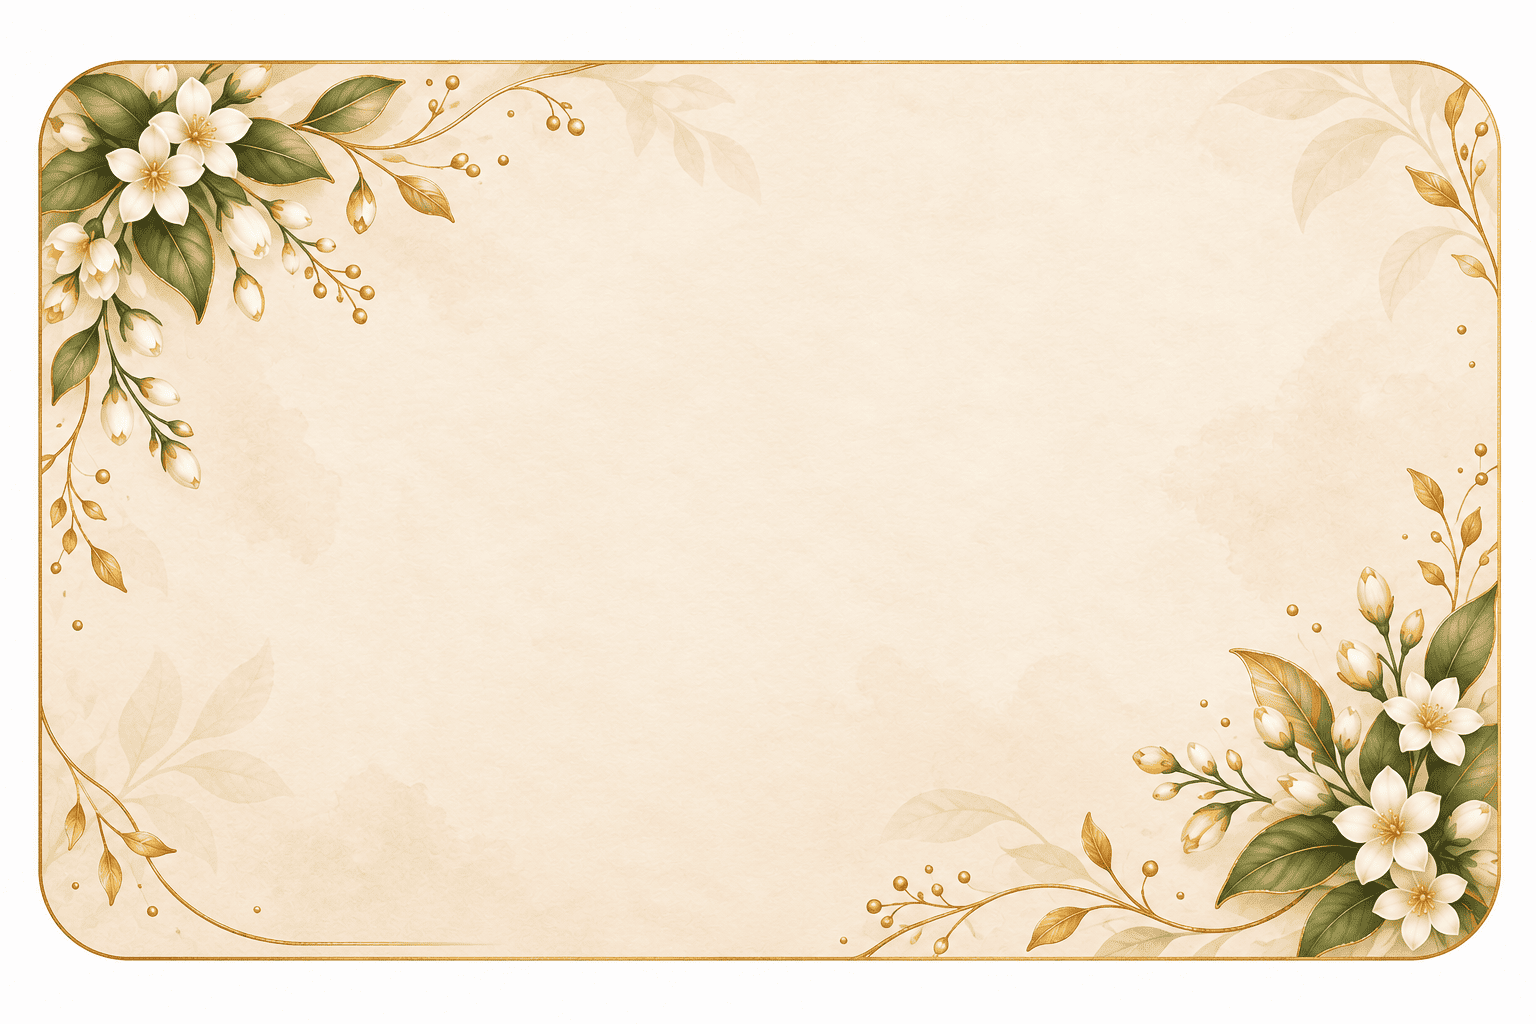
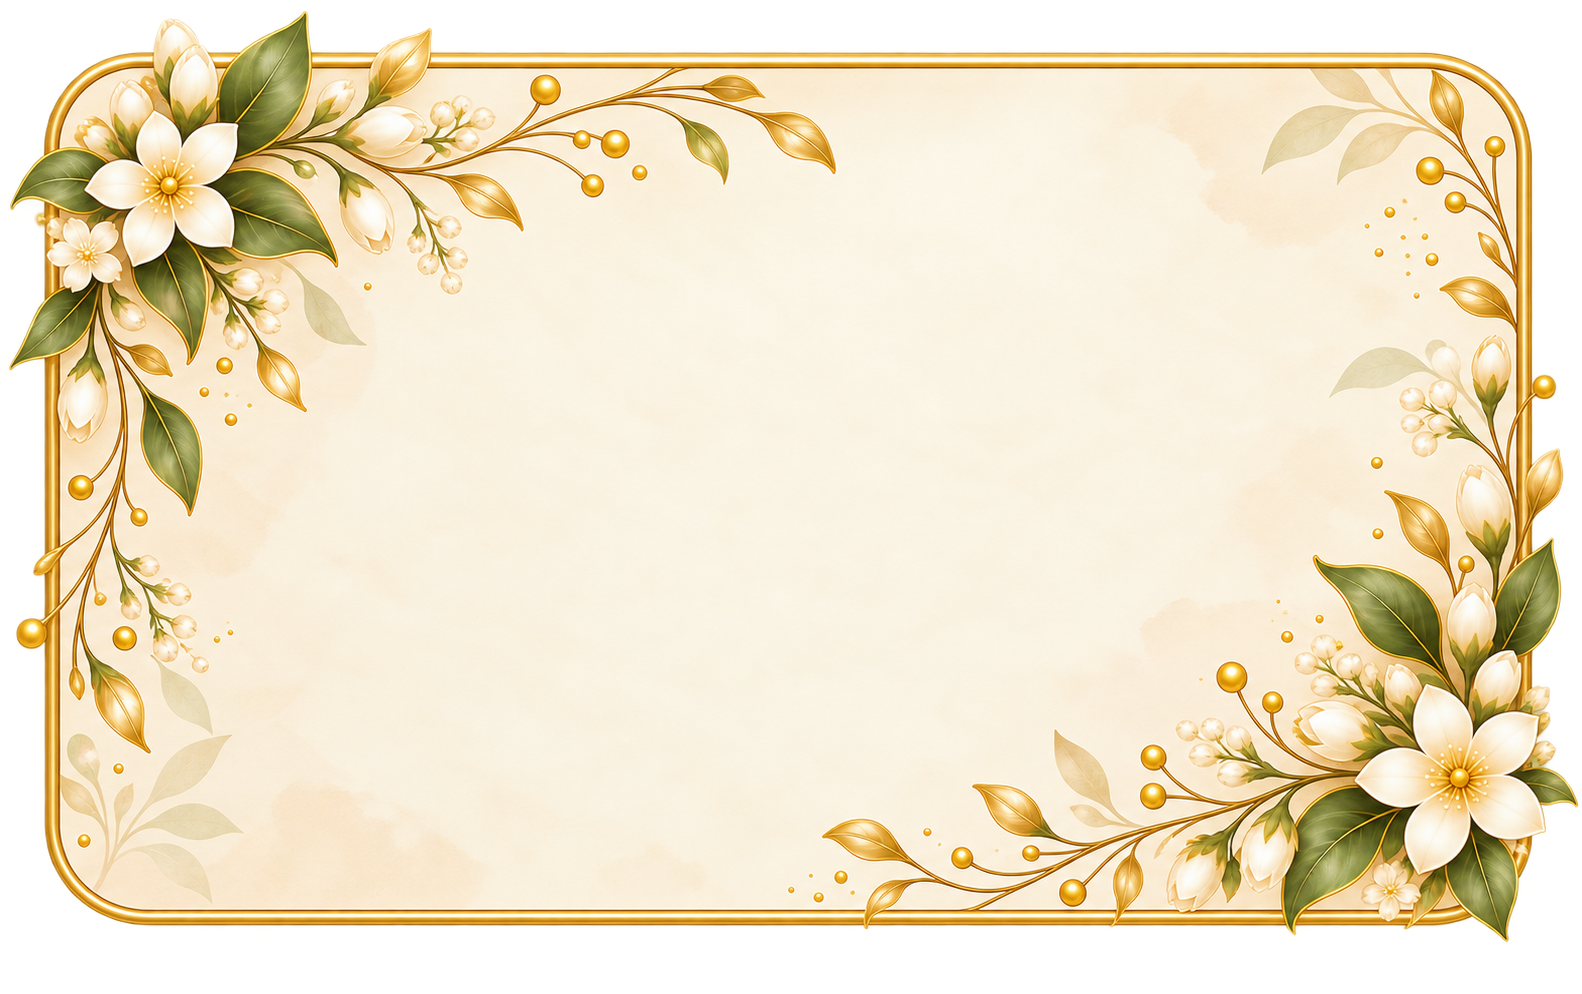
scratch bg image and couple images

Changed region(s): [[0.0, 0.0, 1.0, 0.9668], [0.25, 0.7485, 0.2812, 0.8421]]

diff --git a/src/sections/ScratchSurprise.jsx b/src/sections/ScratchSurprise.jsx
@@ -150,7 +150,7 @@ export default function ScratchSurprise({ onCelebrate }) {
   }, []);
 
   return (
-    <section id="surprise" className="section max-w-[1120px] mx-auto px-5 py-28">
+    <section id="surprise" className="section max-w-[1120px] mx-auto px-2 py-28">
       <Reveal className="text-center">
         <span className="inline-block tracking-[0.28em] uppercase text-xs text-gold-bright mb-3">Shhh...</span>
         <h2 className="font-display font-medium text-ivory" style={{ fontSize: 'clamp(34px,6vw,58px)' }}>Save The Date</h2>
@@ -158,22 +158,23 @@ export default function ScratchSurprise({ onCelebrate }) {
       </Reveal>
 
       <Reveal variant="scale">
-        <div ref={wrapperRef} className="relative max-w-[420px] mx-auto rounded-2xl overflow-hidden shadow-royal">
-          <div
-            className="px-6 py-14 text-center min-h-[260px] flex flex-col items-center justify-center"
-            style={
-              config.scratchSurprise && config.scratchSurprise.backgroundImage
-                ? {
-                    backgroundImage: `url(${config.scratchSurprise.backgroundImage})`,
-                    backgroundSize: 'cover',
-                    backgroundPosition: 'center',
-                  }
-                : { background: config.theme.colors.ivory }
-            }
-          >
-            <span className="text-3xl mb-3" style={{ color: config.theme.colors.maroonDeep }}>💍</span>
-            <h4 className="font-display text-3xl mb-2 leading-snug" style={{ color: config.theme.colors.maroonDeep }}>{dateStr}</h4>
-            <p className="text-[15px]" style={{ color: config.theme.colors.maroon }}>{config.scratchSurprise.subtitle}</p>
+        <div
+          ref={wrapperRef}
+          className="relative max-w-[460px] mx-auto rounded-2xl overflow-hidden shadow-royal"
+          style={
+            config.scratchSurprise && config.scratchSurprise.backgroundImage
+              ? {
+                  backgroundImage: `url(${config.scratchSurprise.backgroundImage})`,
+                  backgroundSize: 'cover',
+                  backgroundPosition: 'center',
+                }
+              : { background: config.theme.colors.ivory }
+          }
+        >
+          <div className="px-6 py-8 text-center min-h-[220px] flex flex-col items-center justify-center" style={{ background: 'transparent' }}>
+            <span className="text-2xl mb-2" style={{ color: config.theme.colors.maroonDeep }}>💍</span>
+            <h4 className="font-display text-2xl mb-1 leading-snug" style={{ color: config.theme.colors.maroonDeep }}>{dateStr}</h4>
+            <p className="text-[13px]" style={{ color: config.theme.colors.maroon }}>{config.scratchSurprise.subtitle}</p>
           </div>
           {!revealed && (
             <canvas

diff --git a/src/config/config.js b/src/config/config.js
@@ -7,12 +7,25 @@
 
 // Import assets so Vite includes them in the production build. Keep images
 // inside `src/assets/...` and update these imports when swapping photos.
-import img1 from '../assets/images/1.jpg';
-import img2 from '../assets/images/2.jpg';
-import img3 from '../assets/images/3.jpg';
-import img4 from '../assets/images/4.jpg';
-import img5 from '../assets/images/5.jpg';
-import img6 from '../assets/images/6.jpg';
+import img1 from '../assets/images/couple/1.jpg';
+import img2 from '../assets/images/couple/2.jpg';
+import img3 from '../assets/images/couple/3.jpg';
+import img4 from '../assets/images/couple/4.jpg';
+import img5 from '../assets/images/couple/5.jpg';
+import img6 from '../assets/images/couple/6.jpg';
+import img7 from '../assets/images/couple/7.jpg';
+import img8 from '../assets/images/couple/8.jpg';
+import img9 from '../assets/images/couple/9.jpg';
+import img10 from '../assets/images/couple/10.jpg';
+import img11 from '../assets/images/couple/11.jpg';
+import img12 from '../assets/images/couple/12.jpg';
+import img13 from '../assets/images/couple/13.jpg';
+import img14 from '../assets/images/couple/14.jpg';
+import img15 from '../assets/images/couple/15.jpg';
+import img16 from '../assets/images/couple/16.jpg';
+import img17 from '../assets/images/couple/17.jpg';
+import img18 from '../assets/images/couple/18.jpg';
+
 import haldiImg from '../assets/images/events/haldi.png';
 import mehandiImg from '../assets/images/events/mehandi.png';
 import receptionImg from '../assets/images/events/reception.png';
@@ -281,6 +294,18 @@ const config = {
     { src: img4, type: 'image' },
     { src: img5, type: 'image' },
     { src: img6, type: 'image' },
+    { src: img7, type: 'image' },
+    { src: img8, type: 'image' },
+    { src: img9, type: 'image' },
+    { src: img10, type: 'image' },
+    { src: img11, type: 'image' },
+    { src: img12, type: 'image' },
+    { src: img13, type: 'image' },
+    { src: img14, type: 'image' },
+    { src: img15, type: 'image' },
+    { src: img16, type: 'image' },
+    { src: img17, type: 'image' },
+    //{ src: img18, type: 'image' },
     // { src: '/videos/highlight.mp4', type: 'video', poster: '/images/gallery-1.jpg' },
   ],
 
